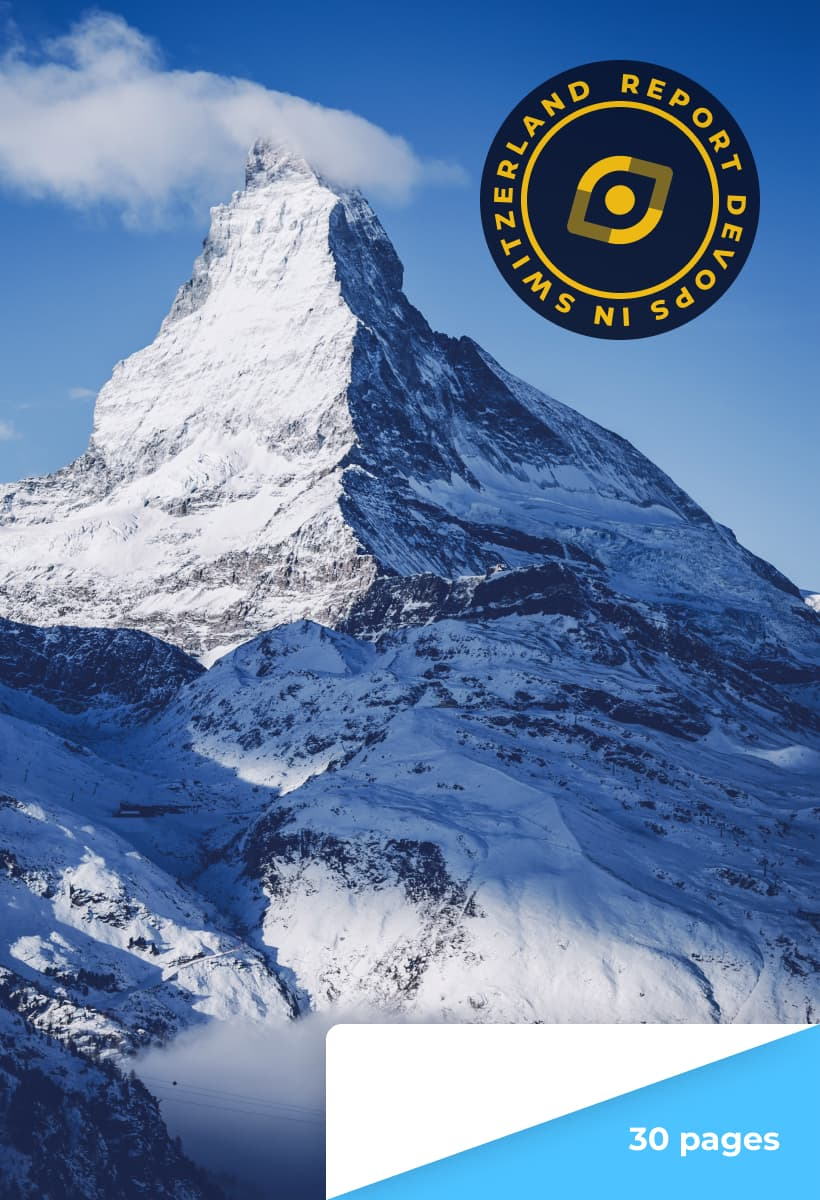
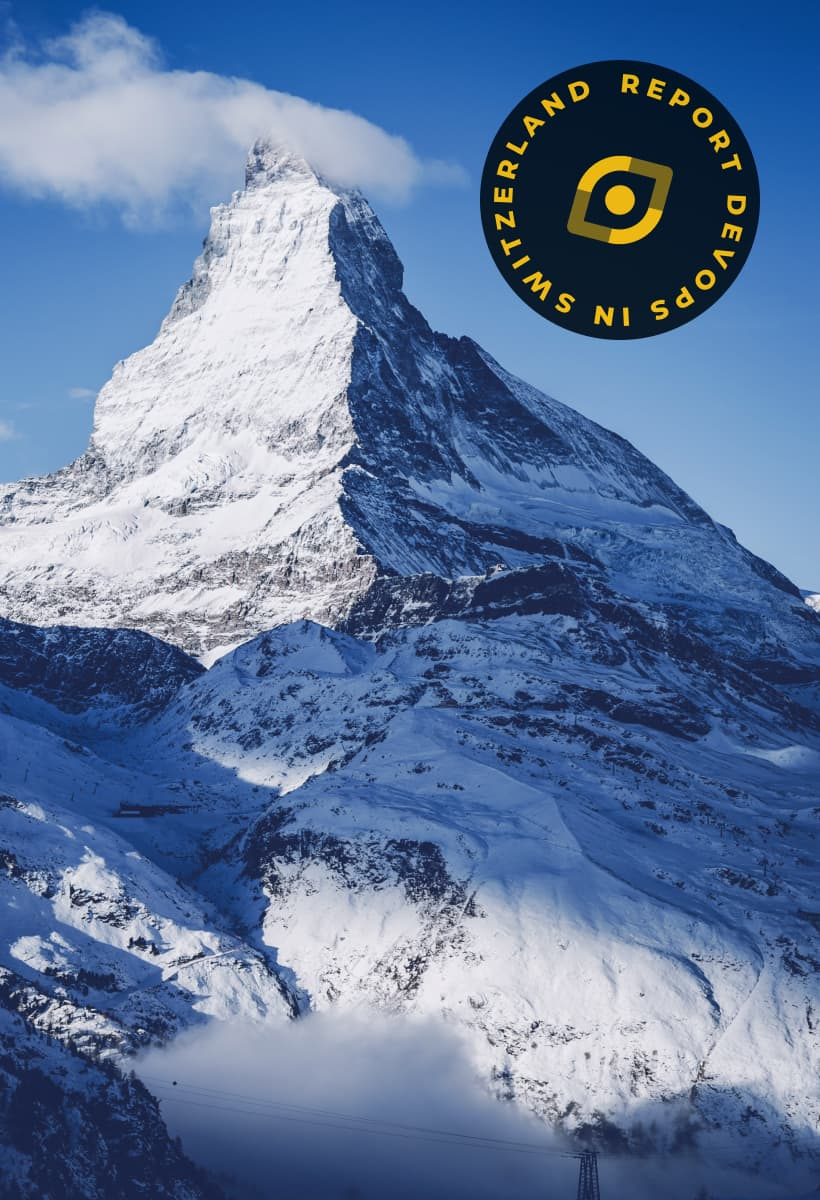
fix(styles): fix styles in Report for Home page

Changed region(s): [[0.3963, 0.8325, 1.0, 1.0], [0.6098, 0.0617, 0.8537, 0.2775], [0.8537, 0.1233, 0.8841, 0.2158]]

diff --git a/src/components/pages/home/report/report.jsx b/src/components/pages/home/report/report.jsx
@@ -7,7 +7,6 @@ import classNames from 'classnames/bind';
 import Heading from 'components/shared/heading';
 import Button from 'components/shared/button';
 
-import shape from './images/shape.svg';
 import styles from './report.module.scss';
 
 const cx = classNames.bind(styles);
@@ -33,7 +32,7 @@ const Report = ({ title, description, text, buttonText, buttonUrl }) => {
     <section className={cx('wrapper')}>
       <div className={cx('container', 'inner')}>
         <div className={cx('content')}>
-          <Heading className={cx('title')} tag="h2" size="sm" color="secondary">{title}</Heading>
+          <Heading className={cx('title')} tag="h2" size="xs" color="secondary">{title}</Heading>
           <Heading className={cx('description')} tag="p" size="xl" innerHTML={description} />
           <p className={cx('text')}>{text}</p>
           <Button to={buttonUrl}>{buttonText}</Button>
@@ -46,7 +45,6 @@ const Report = ({ title, description, text, buttonText, buttonUrl }) => {
           <GatsbyImage className={cx('image')} fluid={image} />
         </div>
 
-        <img className={cx('shape')} src={shape} alt="" aria-hidden />
       </div>
     </section>
   );

diff --git a/src/components/pages/home/report/report.module.scss b/src/components/pages/home/report/report.module.scss
@@ -2,7 +2,7 @@
   position: relative;
   padding-top: 60px;
   padding-bottom: 60px;
-  margin-bottom: 240px;
+  margin-bottom: 150px;
 
   @include section-paddings;
 
@@ -39,7 +39,8 @@
 .content {
   grid-column-start: 7;
   grid-column-end: 13;
-  padding-top: 100px;
+  padding-top: 60px;
+  margin-left: -10px;
 
   @include lg-down {
     grid-column-end: 12;
@@ -59,7 +60,8 @@
 }
 
 .title {
-  margin-bottom: 30px;
+  margin-bottom: 35px;
+  text-transform: uppercase;
 
   @include md-down {
     margin-bottom: 25px;
@@ -145,7 +147,7 @@
   width: 250px;
   height: 690px;
   background-color: $color-accent-secondary;
-  border-bottom-right-radius: 120px;
+  border-bottom-right-radius: 100px;
 
   @include lg-down {
     height: 630px;
@@ -182,17 +184,4 @@
 
 .image {
   border-radius: 8px;
-}
-
-.shape {
-  position: absolute;
-  top: -210px;
-  left: 1240px;
-  width: calc(50px + #{$container-side-gap});
-  min-width: 365px;
-  height: 760px;
-
-  @include lg-down {
-    display: none;
-  }
 }

diff --git a/src/pages/index.jsx b/src/pages/index.jsx
@@ -196,7 +196,7 @@ const news = {
 
 const report = {
   title: 'Report',
-  description: '<strong>Report DevOps</strong> in Switzerland 2020',
+  description: 'Report DevOps in Switzerland 2020',
   text: 'Download the report of our DevOps in Switzerland study 2020.',
   buttonText: 'Read More',
   buttonUrl: '/',
